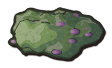
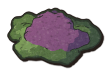
The plants in the kraken's style (the Art Director's out/kraken_round/plants, 2026-10-21, the round's fourth item): assets/props/plants, the 24 pictures and plants.json (the same names, unit sizes and anchors, the boxes a few pixels changed); art/build/plants_build.py, skin.py and toon.py (it adds s

diff --git a/tools/visual/dayisland.js b/tools/visual/dayisland.js
@@ -2,8 +2,24 @@
 // of 60 tiles, the wreck, no jetty), painted round the camp with the ground pieces, the waves, the living grass and the props from
 // the buckets, exactly as the game draws them. paint(kit, World, W, H, Z, opts) returns { cv, home, w }: a canvas W by H pixels at
 // Z px a unit with the camp at the middle (or opts.at), the home point in canvas pixels, and the world. Shared by herofit.js.
-const { createCanvas } = require('../../node_modules/@napi-rs/canvas');
+const { createCanvas, loadImage } = require('../../node_modules/@napi-rs/canvas');
+const fs = require('fs'), path = require('path');
 const K = 0.75;
+/* The studio's set pieces, as the game draws them (2026-10-21, the Art Director: the round drawn bushes in this scene were the most
+   out-of-style thing on screen, and the game no longer draws them): await load(World) before make() and paint(), and every
+   picture of assets/props (props.json and each folder's own json, as tools/build.py gathers them) goes to World.setImages, so
+   w.sprite gives the pictures, drawn at their own size with the game's cast shadow and, on grass, the halo and the meadow's blades
+   at the foot (the sticker cure). Node decodes a picture only once its event loop has run, hence the await. A script that does
+   not call load() gets the drawn props as before. */
+let PIECES = null;
+async function load(World) {
+  if (PIECES) return PIECES;
+  const root = path.join(__dirname, '..', '..', 'assets', 'props'), map = {}, jobs = [];
+  const add = (dir, j) => { for (const n in j) { const fp = path.join(dir, n + '.png'); if (!fs.existsSync(fp)) continue; jobs.push(loadImage(fs.readFileSync(fp)).then(im => { map[n] = { img: im, w: j[n].w, h: j[n].h, ax: j[n].ax, ay: j[n].ay, upp: j[n].upp }; })); } };
+  const top = path.join(root, 'props.json'); if (fs.existsSync(top)) add(root, JSON.parse(fs.readFileSync(top, 'utf8')));
+  for (const sub of fs.readdirSync(root)) { const jp = path.join(root, sub, sub + '.json'); if (fs.existsSync(jp)) add(path.join(root, sub), JSON.parse(fs.readFileSync(jp, 'utf8'))); }
+  await Promise.all(jobs); World.setImages(map); PIECES = map; return map;
+}
 function make(kit, World, seed) {
   const spec = { isle: 60, isle0: 60, count: 1, noDock: true, skerries: 1, rough: 1, beach: 4.5, hue: 0, seed: seed || 11 };
   const w = World.make(kit, spec); w.meadowLook = World.GRASS_INK; w.plant(); w.camp(); w.sortBuckets();
@@ -23,7 +39,10 @@ function paint(kit, World, W, H, Z, opts) {
   const by0 = Math.max(0, Math.floor((cam.y - hh) / TS / CT)), by1 = Math.min(CH - 1, Math.floor((cam.y + hh) / TS / CT) + 1);
   for (let by = by0; by <= by1; by++) for (let bx = bx0; bx <= bx1; bx++) {
     const list = w.buckets[by * CW + bx]; if (!list) continue;
-    list.forEach(o => { const s = w.sprite(o.name, o.v), px = o.x + s.l * o.s, py = o.y * K + s.t * o.s, ww = s.w * o.s, h = s.h * o.s; if (px + ww < cam.x - hw || px > cam.x + hw || py + h < cam.y - hh || py > cam.y + hh) return; items.push({ y: o.y, f: () => c.drawImage(s.cv, px, py, ww, h) }); });
+    list.forEach(o => { if (o.painted) return; const s = w.sprite(o.name, o.v), sS = s.fixed ? 1 : o.s, px = o.x + s.l * sS, py = o.y * K + s.t * sS, ww = s.w * sS, h = s.h * sS; if (px + ww < cam.x - hw - h || px > cam.x + hw || py + h < cam.y - hh || py > cam.y + hh + h) return;
+      if (w.castShadow && h >= 10) w.castShadow(c, o.x, o.y * K, ww, h, { k: 1, len: 1, dusk: 0 });   // the game's shadow, under everything that stands
+      const gr = w.onGrass && h > 6 && !o.peak && !o.inFace ? w.onGrass(o.x, o.y) : 0;
+      items.push({ y: o.y, f: () => { if (gr) w.footHalo(c, o.x, o.y * K, ww); c.drawImage(s.cv, px, py, ww, h); if (gr) w.footGrass(c, s, o.x, o.y * K + 0.7, ww, gr === 2, World.GRASS_INK); } }); });
   }
   (opts.items || []).forEach(it => items.push(it));
   items.sort((a, b) => a.y - b.y).forEach(it => it.f());
@@ -38,4 +57,4 @@ function sample(cv) {
   for (let y = 0; y < H; y += 4) for (let x = 0; x < W; x += 4) { const i = (y * W + x) * 4; r += d[i]; g += d[i + 1]; b += d[i + 2]; n++; }
   return '#' + [r / n, g / n, b / n].map(v => Math.round(v).toString(16).padStart(2, '0')).join('');
 }
-module.exports = { make, paint, contactShadow, sample };
+module.exports = { load, make, paint, contactShadow, sample };

diff --git a/tools/visual/mountainlook.js b/tools/visual/mountainlook.js
@@ -6,7 +6,7 @@ const { createCanvas, loadImage } = require('../../node_modules/@napi-rs/canvas'
 global.__mk = (w, h) => createCanvas(w, h);
 const S = require('../../src/stylelab.js'), World = require('../../src/world.js'), DI = require('./dayisland.js'); const kit = S.kit; kit.setup(kit.STYLE);
 const seed = +(process.argv[2] || 11), want = (process.argv[3] || 'all').split(','), Z = +(process.argv[4] || 2), BIG = process.env.MSPEC === 'big', SPEC = BIG ? { isle: 160, isle0: 120, big: 400, sizes: [120, 400], biomes: [0, 0], noDock: true, count: 2, dir: 0.1, gap: 150, gapVar: 0.3, skerries: 1, rough: 1, beach: 4.5, hue: 0, seed, mountain: 1, mountainOpts: World.BIG_MOUNTAIN } : Object.assign({}, World.MOUNTAIN_SPEC, { seed });   // MSPEC=big: the game's own two islands, the big one with its small mountain
-(async () => {
+(async () => { await DI.load(World);   /* the studio's set pieces, as the game draws them (2026-10-21) */
   try { const PJ = JSON.parse(fs.readFileSync('assets/props/props.json', 'utf8')), map = {}; for (const k in PJ) map[k] = Object.assign({ img: await loadImage(path.join('assets/props', k + '.png')) }, PJ[k]); World.setImages(map); } catch (e) { console.log('no set pieces packed'); }
   const w = World.make(kit, SPEC); if (process.env.SEAMS) w.debugSeams = true; w.meadowLook = World.GRASS_INK; w.plant(); if (w.peaks) w.peaks(); if (w.dress) w.dress();
   const caveAt = w.caveSite ? w.caveSite(kit.rng(seed * 31 + 9)) : null; if (caveAt && World.IMAGES.cave_mouth) w.addProp({ name: 'cave_mouth', x: caveAt.x, y: caveAt.y + 2, s: 1, r: 0, v: 0 });

diff --git a/tools/visual/mountain.js b/tools/visual/mountain.js
@@ -9,7 +9,7 @@ const { createCanvas, loadImage } = require('../../node_modules/@napi-rs/canvas'
 global.__mk = (w, h) => createCanvas(w, h);
 const S = require('../../src/stylelab.js'), World = require('../../src/world.js'), DI = require('./dayisland.js'); const kit = S.kit; kit.setup(kit.STYLE);
 const seed = +(process.argv[2] || 11), SPEC = World.MOUNTAIN_SPEC ? Object.assign({}, World.MOUNTAIN_SPEC, { seed }) : { isle: 220, isle0: 220, count: 1, noDock: true, skerries: 1, rough: 1, beach: 4.5, hue: 0, seed, mountain: true };
-(async () => {
+(async () => { await DI.load(World);   /* the studio's set pieces, as the game draws them (2026-10-21) */
   try { const PJ = JSON.parse(fs.readFileSync('assets/props/props.json', 'utf8')), map = {}; for (const k in PJ) map[k] = Object.assign({ img: await loadImage(path.join('assets/props', k + '.png')) }, PJ[k]); World.setImages(map); } catch (e) { console.log('no set pieces packed (assets/props): the peaks and the cave mouth are left out'); }
   const t0 = Date.now(), w = World.make(kit, SPEC); w.meadowLook = World.GRASS_INK; w.plant(); const nPeaks = w.peaks ? w.peaks() : 0; if (w.dress) w.dress();
   const caveAt = w.caveSite ? w.caveSite(kit.rng(seed * 31 + 9)) : null; if (caveAt && World.IMAGES.cave_mouth) w.addProp({ name: 'cave_mouth', x: caveAt.x, y: caveAt.y + 2, s: 1, r: 0, v: 0 }); w.sortBuckets();

diff --git a/tools/visual/beasts.js b/tools/visual/beasts.js
@@ -5,7 +5,7 @@ global.__mk = (w, h) => createCanvas(w, h); const SPRT = require('../../src/spri
 const S = require('../../src/stylelab.js'), World = require('../../src/world.js'), DI = require('./dayisland.js'); const kit = S.kit; kit.setup(kit.STYLE);
 const names = process.argv.slice(2).length ? process.argv.slice(2) : ['boar', 'deer', 'wolf'];
 const W = 1700, ROW = 470, H = ROW * names.length + 20, Z = 3;
-(async () => {
+(async () => { await DI.load(World);   /* the studio's set pieces, as the game draws them (2026-10-21) */
   const w = DI.make(kit, World, 11), r = DI.paint(kit, World, W, H, Z, { world: w, at: { x: w.home.x - 420, y: w.home.y - 260 } });
   const cv = r.cv, c = cv.getContext('2d'); c.imageSmoothingEnabled = true; c.imageSmoothingQuality = 'high';
   const label = (t, x, y) => { c.fillStyle = 'rgba(20,16,12,0.62)'; c.font = 'bold 13px sans-serif'; const tw = c.measureText(t).width; c.fillRect(x - 4, y - 14, tw + 8, 19); c.fillStyle = '#f0e6cc'; c.fillText(t, x, y); };

diff --git a/tools/visual/trollsheet.js b/tools/visual/trollsheet.js
@@ -7,7 +7,7 @@ const S = require('../../src/stylelab.js'), World = require('../../src/world.js'
 const names = process.argv.slice(2).length ? process.argv.slice(2) : ['troll_boulder', 'troll_forest', 'troll_maw', 'troll_three'];
 const TITLE = { troll_boulder: 'Mountain troll (after Bauer)', troll_forest: 'Forest troll (after Kittelsen)', troll_maw: 'The Gape (new)', troll_three: 'Three-headed troll (new)' };
 const W = 2500, ROW = 430, H = ROW * names.length + 20, Z = 3;
-(async () => {
+(async () => { await DI.load(World);   /* the studio's set pieces, as the game draws them (2026-10-21) */
   const w = DI.make(kit, World, 11), r = DI.paint(kit, World, W, H, Z, { world: w, at: { x: w.home.x - 520, y: w.home.y - 300 }, bare: true });
   const cv = r.cv, c = cv.getContext('2d'); c.imageSmoothingEnabled = true; c.imageSmoothingQuality = 'high';
   c.fillStyle = 'rgba(126,160,96,0.55)'; c.fillRect(0, 0, W, H);                       // the island knocked back so the figures read

diff --git a/tools/visual/vasensheet.js b/tools/visual/vasensheet.js
@@ -9,7 +9,7 @@ const ROWS = [
   ['nacken', 'Nacken: a river-pale man with a lyre', [['idle', 's', 0], ['idle', 'sw', 0.3], ['walk', 'w', 0.3], ['idle', 'n', 0], ['play', 's', 0.2], ['play', 'sw', 0.6], ['play', 'e', 0.4], ['death', 'sw', 0.95]]],
   ['bysen', 'The bysen: chopping, and the stump he turns into', [['idle', 's', 0], ['walk', 'sw', 0.3], ['chop', 'w', 0.3], ['chop', 'w', 0.75], ['hide', 's', 0.4], ['hide', 's', 0.7], ['stump', 's', 0], ['stump', 'w', 0]]]];
 const W = 2300, ROW = 420, H = ROW * ROWS.length + 20, Z = 3;
-(async () => {
+(async () => { await DI.load(World);   /* the studio's set pieces, as the game draws them (2026-10-21) */
   const w = DI.make(kit, World, 11), r = DI.paint(kit, World, W, H, Z, { world: w, at: { x: w.home.x - 520, y: w.home.y - 300 } });
   const cv = r.cv, c = cv.getContext('2d'); c.imageSmoothingEnabled = true; c.imageSmoothingQuality = 'high';
   c.fillStyle = 'rgba(126,160,96,0.6)'; c.fillRect(0, 0, W, H);

diff --git a/tools/visual/people.js b/tools/visual/people.js
@@ -22,7 +22,7 @@ async function hero(c, x, y, Z, d) {
 }
 async function put(c, look, st, x, y, Z, opts) { await need(look, [st.clip]); c.save(); c.scale(Z, Z); const ok = Sprites.person(c, H, look, st, x / Z, y / Z, Object.assign({ shadowHue: kit.STYLE.shadowHue }, opts || {})); c.restore(); return ok; }
 const mode = process.argv[2] || 'crowd';
-(async () => {
+(async () => { await DI.load(World);   /* the studio's set pieces, as the game draws them (2026-10-21) */
   if (mode === 'crowd') {
     const seed = +process.argv[3] || 7, R = rng(seed), Z = 4.5, W = 1800, HH = 1000;
     const w = DI.make(kit, World, 11), r = DI.paint(kit, World, W, HH, Z, { world: w, at: { x: w.home.x - 330, y: w.home.y - 250 } }), cv = r.cv, c = cv.getContext('2d'); c.imageSmoothingEnabled = true; c.imageSmoothingQuality = 'high';

diff --git a/art/build/plants_build.py b/art/build/plants_build.py
@@ -1,4 +1,5 @@
-"""The plants of the starter island as set pieces (2026-10-20; art plan item 8, the third of Robin's order): the bush, the berry
+"""The plants (2026-10-21, the kraken round: chosen tones, each bush one mass lit as one with a ragged rim, no pale clumps, thicker reeds,
+the line only where colours meet; the tall grass as Robin picked it). The plants of the starter island as set pieces (2026-10-20; art plan item 8, the third of Robin's order): the bush, the berry
 bush, the juniper, the heather, the fern, the tall grass, the reeds and the toadstools. Drawn in the trees' hand (concept A, the
 printed tale book, Robin's pick 2026-10-20) and rendered from the set pieces' camera as the trees and the benches were: 35 degrees
 above the ground, looking north, 4 px a game unit when packed, twice that here. The old drawn bushes were dark blobs with a heavy
@@ -19,6 +20,8 @@ greens, and the toadstools a hand high.
 import bpy, bmesh, math, os, sys, json, random
 sys.path.insert(0, os.path.dirname(os.path.abspath(__file__)))
 import toon
+toon.TONES = 'chosen'                                   # the kraken round (2026-10-21)
+from mathutils.bvhtree import BVHTree
 from skin import Stick, ball
 from mathutils import Vector, Matrix
 from bpy_extras.object_utils import world_to_camera_view
@@ -35,11 +38,36 @@ def fresh():
     bpy.ops.wm.read_factory_settings(use_empty=True)
     sc = bpy.context.scene; coll = bpy.data.collections.new('Piece'); sc.collection.children.link(coll); return sc, coll
 C = {}
+GRASS = ('ggd', 'ggm', 'ggl', 'straw')
+FOLIAGE = ('leaf', 'leafl', 'needle', 'needlel', 'heath', 'heathl', 'fern', 'fernl', 'reed', 'reedl')
+def one_form(objs, spheres, k=0.85, voxel=0.08, iters=20, grow=1.04):
+    """the light from one smooth mass (the trees' and the boar's way, 2026-10-21)"""
+    coll = objs[0].users_collection[0]; bm = bmesh.new()
+    for (c, r, sc_) in spheres: bmesh.ops.create_uvsphere(bm, u_segments=16, v_segments=10, radius=r * grow, matrix=Matrix.Translation(Vector(c)) @ Matrix.Diagonal((sc_[0], sc_[1], sc_[2], 1.0)))
+    me = bpy.data.meshes.new('proxy_raw'); bm.to_mesh(me); bm.free(); pobj = bpy.data.objects.new('proxy_raw', me); coll.objects.link(pobj)
+    rm = pobj.modifiers.new('rm', 'REMESH'); rm.mode = 'VOXEL'; rm.voxel_size = voxel
+    smd = pobj.modifiers.new('sm', 'SMOOTH'); smd.factor = 1.0; smd.iterations = iters
+    bpy.context.view_layer.update(); dg = bpy.context.evaluated_depsgraph_get(); me2 = bpy.data.meshes.new_from_object(pobj.evaluated_get(dg))
+    bpy.data.objects.remove(pobj); bpy.data.meshes.remove(me)
+    PB = bmesh.new(); PB.from_mesh(me2); PB.normal_update(); Tr = BVHTree.FromBMesh(PB)
+    for o in objs:
+        om = o.data; vn = []
+        for v in om.vertices:
+            hit = Tr.find_nearest(o.matrix_world @ v.co); n = hit[1].normalized() if hit and hit[1] is not None else None
+            vn.append(((n * k + v.normal * (1 - k)).normalized())[:] if n is not None else v.normal[:])
+        om.normals_split_custom_set_from_vertices(vn)
+    PB.free(); bpy.data.meshes.remove(me2)
 def mats():
-    for k, v in {'leaf': '#5a8c38', 'leafl': '#7aa848', 'needle': '#3d6a38', 'needlel': '#5a8a42', 'heath': '#627c4c', 'heathl': '#7d9a5c', 'bloom': '#8f5c8c',
-                 'fern': '#4f8a3c', 'fernl': '#6aa64a', 'grassd': '#4c7a38', 'grass': '#6a9a44', 'grassl': '#8ab45a', 'ggd': '#4f7f42', 'ggm': '#75a258', 'ggl': '#a3bf6e', 'straw': '#c9b870', 'reed': '#7a9a4c', 'reedl': '#9ab860',
-                 'cattail': '#5a3f2e', 'stem': '#6b4a36', 'berry': '#c43a3a', 'jberry': '#6f7f9a', 'cap': '#b08a4a', 'capd': '#8a6a38', 'stalk': '#e2d6bc', 'fleck': '#ece2cc'}.items():
-        C[k] = toon.material('p_' + k, v, None, 'cel')
+    # 2026-10-21 (the kraken round): chosen tones; the leaves a step deeper and more saturated than the meadow, beside the trees'
+    # greens, with a lighter, smaller shade (by day lush and bright); the tall grass (Robin's pick earlier today) keeps its tone
+    for k, v in {'leaf': '#4f8f38', 'leafl': '#5a9a40', 'needle': '#356f42', 'needlel': '#3e7a49', 'heath': '#5f7c46', 'heathl': '#6f8c52', 'bloom': '#8f5886',
+                 'fern': '#4a8a38', 'fernl': '#5c9c44', 'grassd': '#4c7a38', 'grass': '#6a9a44', 'grassl': '#8ab45a', 'ggd': '#4f7f42', 'ggm': '#75a258', 'ggl': '#a3bf6e', 'straw': '#c9b870', 'reed': '#6f9a48', 'reedl': '#86ac56',
+                 'cattail': '#6a4630', 'stem': '#6b4a36', 'berry': '#c43a3a', 'jberry': '#6f7f9a', 'cap': '#b8843e', 'capd': '#985f34', 'stalk': '#e2d6bc', 'fleck': '#ece2cc'}.items():
+        if k in GRASS: C[k] = toon.material('p_' + k, v, None, 'cel', shared=True)
+        elif k in FOLIAGE:
+            lit, shade = toon.chosen_tones(v, lit_dl=0.09, shade_dl=0.075, cool_k=0.2)
+            C[k] = toon.material('p_' + k, v, None, 'cel', lit=lit, shade=shade, t_dark=0.5, t_lit=1.0)
+        else: C[k] = toon.material('p_' + k, v, None, 'cel')
 def obj(name, coll, bm, m, smooth=True):
     me = bpy.data.meshes.new(name); bm.to_mesh(me); bm.free(); me.materials.append(m)
     for p in me.polygons: p.use_smooth = smooth
@@ -89,11 +117,11 @@ def bush(coll, v, berries=False):
     W = U(1.55, 1.9) * (0.92 if berries else 1.0); H = W * U(0.62, 0.72); S = Stick()                            # waist high on the hero: a thing he picks from
     stems(S, (0, 0), 4, H * 0.45, 0.025, W * 0.18); S.build('stems', coll, C, subdiv=2)
     cl = []
-    for k in range(5 + v):
-        a = TAU * k / (5 + v) + U(-0.3, 0.3); rr = W * U(0.14, 0.2); cl.append(((math.cos(a) * W * 0.25, math.sin(a) * W * 0.2, H * 0.5 + U(-0.05, 0.05)), rr, (1.25, 1.0, 0.85)))
-    cl.append(((0, 0, H * 0.62), W * 0.24, (1.2, 1.0, 0.8)))
-    blob('crown', coll, C['leaf'], cl, tufts=12, tuft_r=0.22)
-    blob('crownlit', coll, C['leafl'], [((-W * 0.14, -W * 0.14, H * 0.74), W * 0.2, (1.25, 1.0, 0.7)), ((W * 0.08, -W * 0.2, H * 0.6), W * 0.13, (1.2, 1.0, 0.8))], tufts=5, tuft_r=0.3)
+    for k in range(3 + v % 2):                         # 2026-10-21: a few big lobes melted into one, a ragged rim, lit as one (no pale clumps faking the light)
+        a = TAU * k / (3 + v % 2) + U(-0.3, 0.3); rr = W * U(0.2, 0.25); cl.append(((math.cos(a) * W * 0.2, math.sin(a) * W * 0.16, H * 0.5 + U(-0.04, 0.05)), rr, (1.25, 1.0, 0.85)))
+    cl.append(((0, 0, H * 0.62), W * 0.27, (1.2, 1.0, 0.8)))
+    crown = blob('crown', coll, C['leaf'], cl, voxel=0.032, tufts=11, tuft_r=0.27)
+    one_form([crown], cl, k=0.85)
     if berries:
         for k in range(11 + v * 2):
             a = U(-2.9, -0.2); ball('berry%d' % k, coll, C['berry'], (math.cos(a) * W * U(0.3, 0.42), math.sin(a) * W * U(0.26, 0.36), H * U(0.55, 0.92)), 0.05)
@@ -101,16 +129,16 @@ def bush(coll, v, berries=False):
 def juniper(coll, v):
     H = U(1.3, 1.6); W = H * U(0.42, 0.5); S = Stick(); stems(S, (0, 0), 2, H * 0.3, 0.03, W * 0.1); S.build('stems', coll, C, subdiv=2)
     cl = [((0, 0, H * 0.3), W * 0.46, (1.0, 0.9, 1.1)), ((U(-0.05, 0.05), U(-0.05, 0.05), H * 0.58), W * 0.4, (1.0, 0.9, 1.25)), ((U(-0.04, 0.04), 0, H * 0.84), W * 0.24, (1.0, 0.9, 1.3))]
-    blob('body', coll, C['needle'], cl, tufts=10, tuft_r=0.3)
-    blob('lit', coll, C['needlel'], [((-W * 0.26, -W * 0.22, H * 0.5), W * 0.2, (1.0, 0.8, 1.6)), ((-W * 0.1, -W * 0.2, H * 0.8), W * 0.13, (1.0, 0.8, 1.3))], tufts=5, tuft_r=0.3)
+    body = blob('body', coll, C['needle'], cl, voxel=0.03, tufts=10, tuft_r=0.3); one_form([body], cl, k=0.8)
     for k in range(4 + v): a = U(-2.6, 0.4); ball('jb%d' % k, coll, C['jberry'], (math.cos(a) * W * 0.36, math.sin(a) * W * 0.3 - 0.04, H * U(0.35, 0.7)), 0.028)
     return dict(h=H + 0.1, w=W + 0.5)
 def heather(coll, v):
     W = U(1.1, 1.35); H = U(0.34, 0.42)
     cl = [((math.cos(a) * W * 0.26, math.sin(a) * W * 0.2, H * 0.45), W * U(0.16, 0.22), (1.2, 1.0, 0.55)) for a in [TAU * k / (4 + v) + U(-0.3, 0.3) for k in range(4 + v)]] + [((0, 0, H * 0.5), W * 0.25, (1.3, 1.0, 0.6))]
-    blob('cushion', coll, C['heath'], cl, tufts=14, tuft_r=0.22)
-    blob('cushionlit', coll, C['heathl'], [((-W * 0.16, -W * 0.14, H * 0.72), W * 0.2, (1.4, 1.0, 0.5))], tufts=5, tuft_r=0.3)
-    for k in range(16 + v * 3): a = U(0, TAU); rr = W * U(0.08, 0.46); ball('bloom%d' % k, coll, C['bloom'], (math.cos(a) * rr, math.sin(a) * rr * 0.8, H * U(0.84, 1.02) - rr * 0.28), U(0.035, 0.05), 1.3, 1.0, 0.6)
+    cush = blob('cushion', coll, C['heath'], cl, voxel=0.03, tufts=14, tuft_r=0.24); one_form([cush], cl, k=0.8)
+    # 2026-10-21: the heather in flower as a big mass, not dots: a ragged purple crown over most of the cushion's top, lit with it
+    bl = [((math.cos(a) * rr, math.sin(a) * rr * 0.8, H * 0.98 - rr * 0.35), W * U(0.12, 0.16), (1.3, 1.0, 0.5)) for a, rr in [(U(0, TAU), W * U(0.0, 0.3)) for _ in range(8 + v)]]
+    crown = blob('bloom', coll, C['bloom'], bl, voxel=0.028, tufts=10, tuft_r=0.3); one_form([crown], cl, k=0.8)
     return dict(h=H + 0.1, w=W + 0.4)
 def fern(coll, v):
     R = U(0.5, 0.6); n = 6 + v; H = R * 0.85
@@ -147,13 +175,13 @@ def reeds(coll, v):
     blob('tussock', coll, C['reed'], [((0, 0, 0.08), 0.16, (1.2, 0.9, 0.5))], tufts=6, tuft_r=0.3)
     for k in range(n):
         a = TAU * k / n + U(-0.3, 0.3); rr = U(0.05, 0.28); x, y = math.cos(a) * rr, math.sin(a) * rr * 0.7; h = H * U(0.72, 1.0); lean = U(-0.08, 0.08)
-        S.chain([Vector((x, y, 0)), Vector((x + lean * 0.5, y, h * 0.5)), Vector((x + lean, y + U(-0.04, 0.04), h))], [(0.032, 0.03), (0.028, 0.026), (0.022, 0.02)], None, 'reed' if k % 2 else 'reedl')
-        if k % 2 == 0: ball('head%d' % k, coll, C['cattail'], (x + lean * 0.86, y, h * 0.86), 0.05, 1.0, 1.0, 3.2)
+        S.chain([Vector((x, y, 0)), Vector((x + lean * 0.5, y, h * 0.5)), Vector((x + lean, y + U(-0.04, 0.04), h))], [(0.05, 0.047), (0.044, 0.041), (0.034, 0.03)], None, 'reed' if k % 2 else 'reedl')   # 2026-10-21: thicker, so not a black stick
+        if k % 2 == 0: ball('head%d' % k, coll, C['cattail'], (x + lean * 0.86, y, h * 0.86), 0.068, 1.0, 1.0, 3.0)
     S.build('stalks', coll, C, subdiv=2)
     for k in range(4 + v):
         th = TAU * k / (4 + v) + U(-0.4, 0.4); L = U(0.3, 0.5)
         pts = arc_pts((0, 0, 0), th, L, H * U(0.5, 0.7), peak=0.75, n=10, sway=U(-0.1, 0.1))
-        strip('leaf%d' % k, coll, C['reedl' if k % 2 else 'reed'], pts, [0.045 * (1 - i / 10) ** 0.6 + 0.006 for i in range(11)], thick=0.012)
+        strip('leaf%d' % k, coll, C['reedl' if k % 2 else 'reed'], pts, [0.065 * (1 - i / 10) ** 0.6 + 0.008 for i in range(11)], thick=0.012)
     return dict(h=H + 0.1, w=1.3)
 def mushrooms(coll, v):
     n = 3 + v * 2 if v < 2 else 2; S = Stick(); H = 0.0
@@ -181,7 +209,7 @@ for ki, (kind, fn) in enumerate(KINDS.items()):
         cam = toon.camera(sc, 35, vw, aim); cam.data.sensor_fit = 'HORIZONTAL'; cam.data.clip_end = 100
         toon.setup_render(sc, 10, PX, 16); sc.render.resolution_x = int(round(vw * PPM * PX)); sc.render.resolution_y = int(round(vh * PPM * PX))
         fs = toon.freestyle(sc, bpy.context.view_layer, PX, None, 'cel'); fs.crease_angle = rad(CREASE.get(kind, 100)); lk = LINE.get(kind, 1.0)
-        toon.piece_line(fs)
+        toon.piece_line(fs, at_colours=True)               # 2026-10-21: the inner line only where colours meet or one mass passes before another
         if kind in NO_INNER: fs.linesets.remove(fs.linesets['inner'])
         for ls in fs.linesets:
             st = ls.linestyle; st.thickness *= lk

diff --git a/art/build/toon.py b/art/build/toon.py
@@ -156,7 +156,7 @@ def build_nodes(m, style):
         col = _mix(n, L, 'MULTIPLY', 1.0, col, _gray(n, L, pool))
         col = _grain(n, L, col, 0.08, 220)
         L.new(col, em.inputs['Color'])
-    elif style == 'cel' and (TONES == 'chosen' or m.get('lit')):   # the kraken's three chosen tones (2026-10-21)
+    elif style == 'cel' and (TONES == 'chosen' or m.get('lit')) and not m.get('shared'):   # the kraken's three chosen tones (2026-10-21)
         v = _light(n, L)
         lit_h, shade_h = (m.get('lit'), m.get('shade')) if m.get('lit') else chosen_tones(m['hex'])
         base_t = tuple(base[i] * AMBIENT_TINT[i] for i in range(3)); lit_c = srgb(lit_h); shade_c = srgb(shade_h)
@@ -302,13 +302,14 @@ def face_images(kind='hero'):
     for eyes in ('dot', 'oval', 'highlight'):
         for expr in ('neutral', 'blink', 'angry', 'hurt'): _paint_face('face_%s_%s' % (eyes, expr), eyes, expr, kind=kind)
 
-def material(name, hexs, pattern=None, style='cel', face=False, wet=False, lit=None, shade=None, t_dark=None, t_lit=None):
+def material(name, hexs, pattern=None, style='cel', face=False, wet=False, lit=None, shade=None, t_dark=None, t_lit=None, shared=False):
     m = bpy.data.materials.get(name)
     if m: return m
     m = bpy.data.materials.new(name); m['hex'] = hexs; m['pattern'] = pattern or ''
     if lit and shade: m['lit'] = lit; m['shade'] = shade      # tones picked by hand (2026-10-21)
     if t_dark is not None: m['t_dark'] = t_dark                # where the shade begins and the lit band ends, per material (2026-10-21)
     if t_lit is not None: m['t_lit'] = t_lit
+    if shared: m['shared'] = 1                                   # keeps the shared tone under TONES = 'chosen' (2026-10-21)
     if face: m['face'] = 1
     if wet: m['wet'] = 1
     build_nodes(m, style); m.diffuse_color = (*srgb(hexs), 1)

diff --git a/CLAUDE.md b/CLAUDE.md
@@ -287,6 +287,7 @@ honours `game.gather`, `game.hird`, `game.look`, `game.light`, `game.give`); the
   on the committed code (`git show HEAD:src/x.js` into a scratch folder) and on the change. The scripted raids in the page are
   measured by the same engine: run them again last.
 - Tests and render scripts write throwaway PNGs into the current folder; `.gitignore` covers PNGs in the root.
+- **The reference scene** (`tools/visual/dayisland.js`, the starter island as the game draws it, used by the sheet checks and the studio's boards): `await DI.load(World)` before `make` and `paint` loads every studio picture (node decodes a picture only once its event loop has run), so the scene shows the set pieces at their own size with the game's shadow and foot grass; a script that skips it gets the old drawn props (2026-10-21: the round teal bushes the studio saw were only ever this scene's).
 - **Test with the sound off:** open every page with **`?mute=1`** in the pane (Robin hears it and cannot silence the pane).
 - **Judge it at Robin's size:** the pane's canvas is 800 by 500 at 2 pixels a unit; Robin's is 1200 by 750 at 3, shown about
   half again larger. Before judging light or painted ground: `resize_window` to 1920 by 1080, reload, capture the canvas and
@@ -373,7 +374,7 @@ out at the far end as the studio's log picture** (a drop of kind `log` that give
 log picture drops wood as before). **The workbench and the raft bench are the studio's pictures too** (2026-10-20,
 `assets/props/pieces`, the same way; their footprints widened to the pictures, `r` 8 and 12), **and the plants** (`assets/props/plants`:
 bush, berry bush, juniper, heather, fern, tall grass, reeds and mushrooms, three variants each; a picked berry bush is a
-bush until it regrows; **the tall grass redone 2026-10-21** (Robin: the first "looks like a plant"; now a loose tuft of flat blades
+bush until it regrows; **all of them in the kraken's style since 2026-10-21** (the round's fourth item: `plants_build.py`, the chosen tones, `shared=True` keeping the old tone where a builder wants it); **the tall grass redone 2026-10-21** (Robin: the first "looks like a plant"; now a loose tuft of flat blades
 leaning one way in the grass's greens, the silhouette line only; the studio's `out/plants/grass2`, its `plants_build.py` the game's copy)), **and the rocks** (`assets/props/rocks`: rock, boulder and rock formation in six variants each, by
 the prop's seed; the cracks and the sweet spot's cue are drawn over them), **and the camp things** (`assets/props/camp`:
 the drying rack, woodpile, chopping block, log seat, cart, well, trough and the two tents in undyed wool, their mouths

diff --git a/docs/for-robin.md b/docs/for-robin.md
@@ -365,3 +365,7 @@ feet that follow the ground, their eyes still glowing at night. The deer comes n
 
 **The deer in the kraken's style (2026-10-21):** the starter island's deer is the studio's new red deer stag, in his summer red with
 pale-tipped antlers, more frames and feet that follow the ground. The plants come next.
+
+**The plants in the kraken's style (2026-10-21):** the bushes, berry bushes, juniper, heather, ferns, tall grass, reeds and
+mushrooms are the studio's new pictures, in the same sizes and places. The round dark-teal bushes the studio asked about are not in
+your game; they were only in a check picture of mine, which now shows the game's own pictures too.
